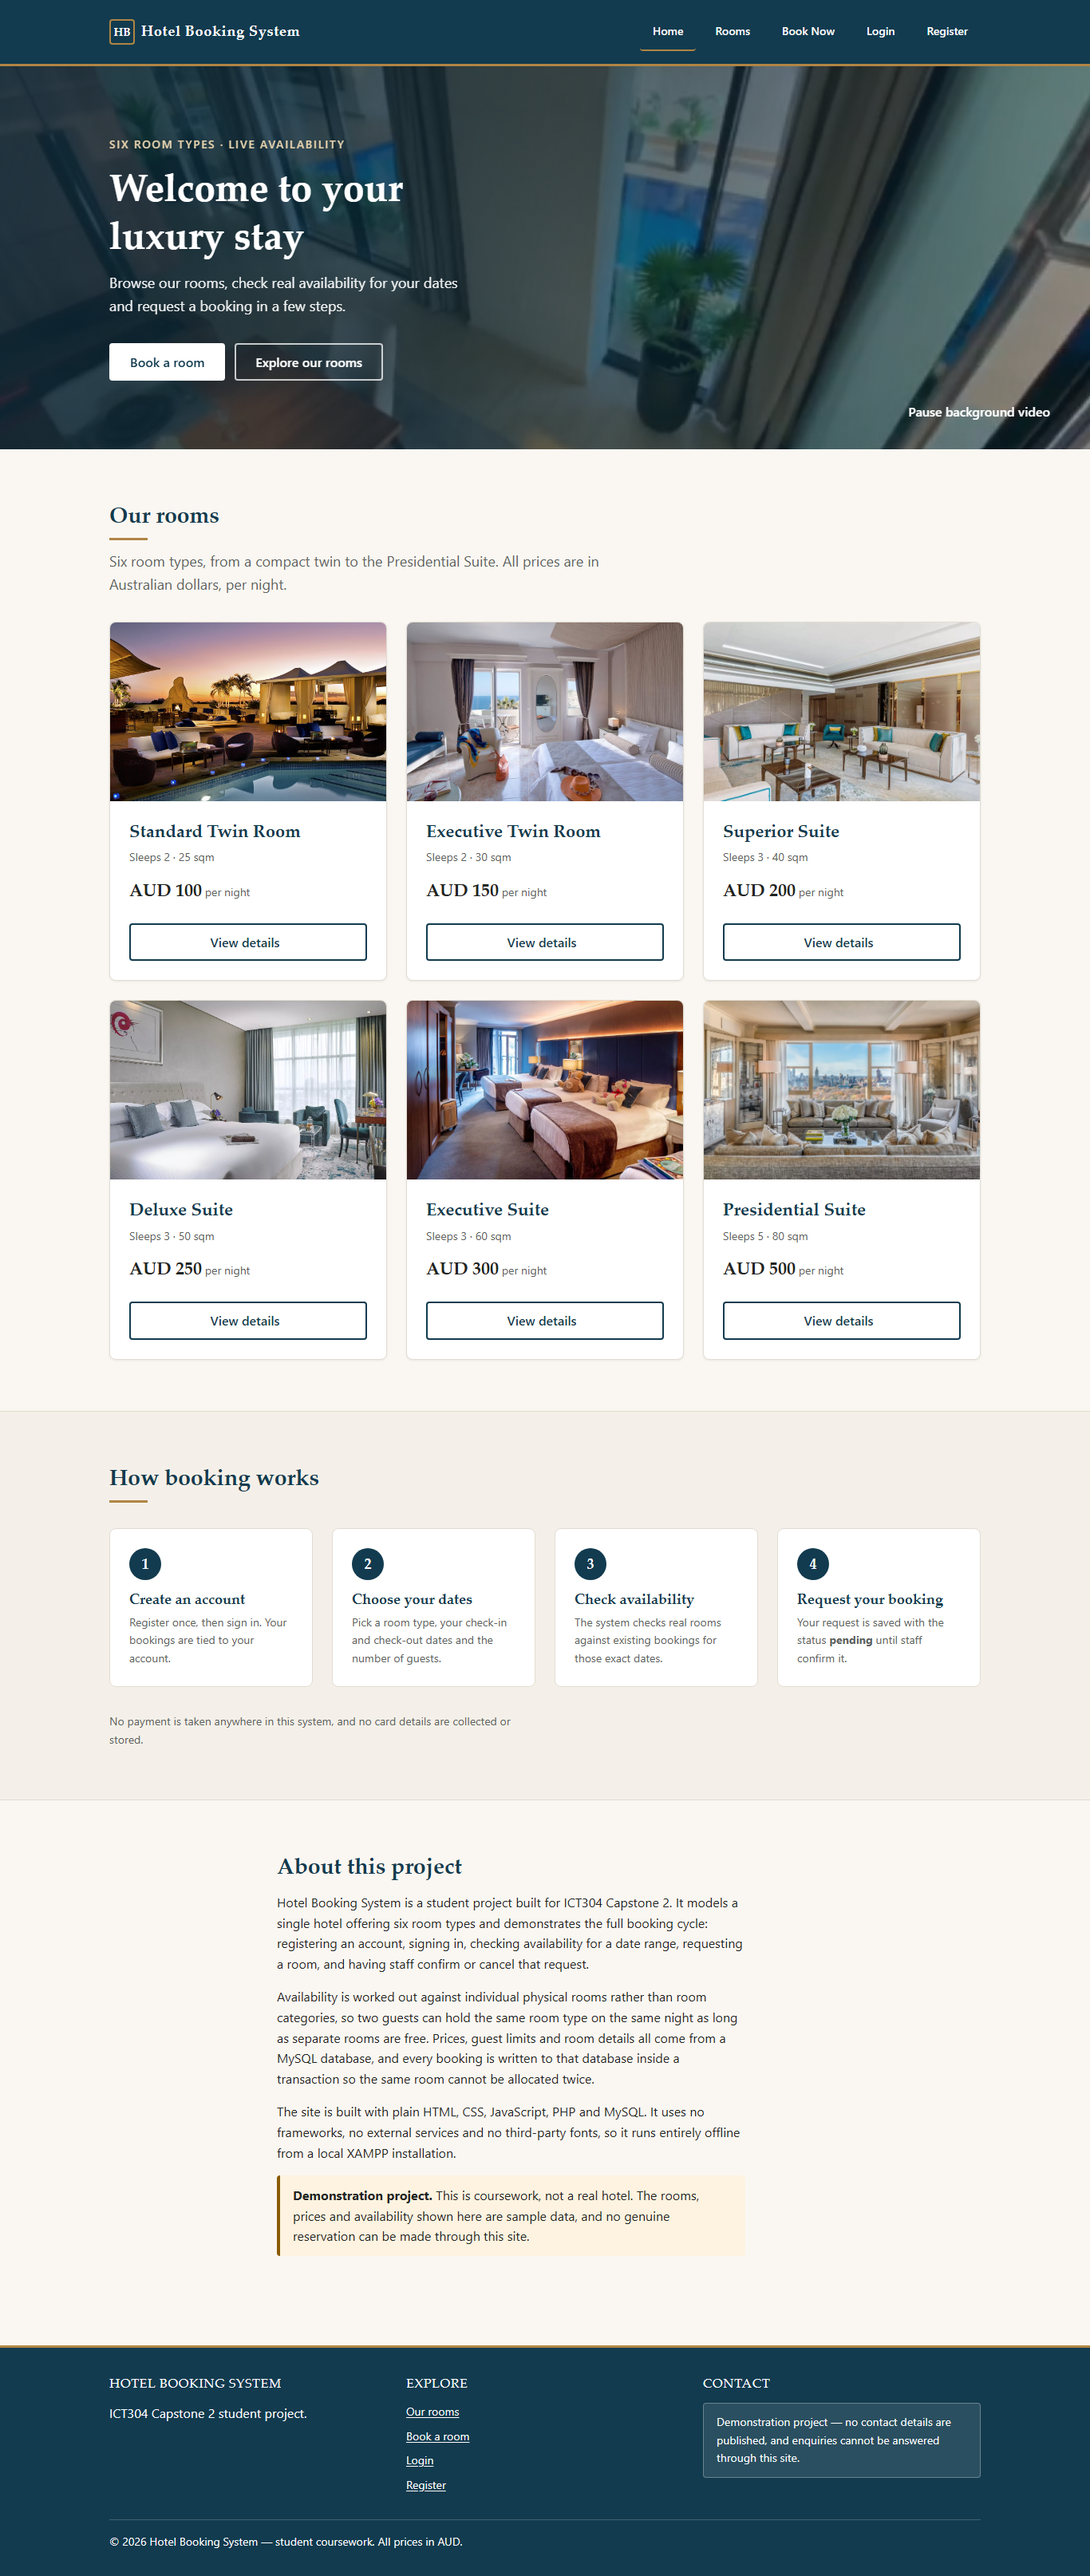
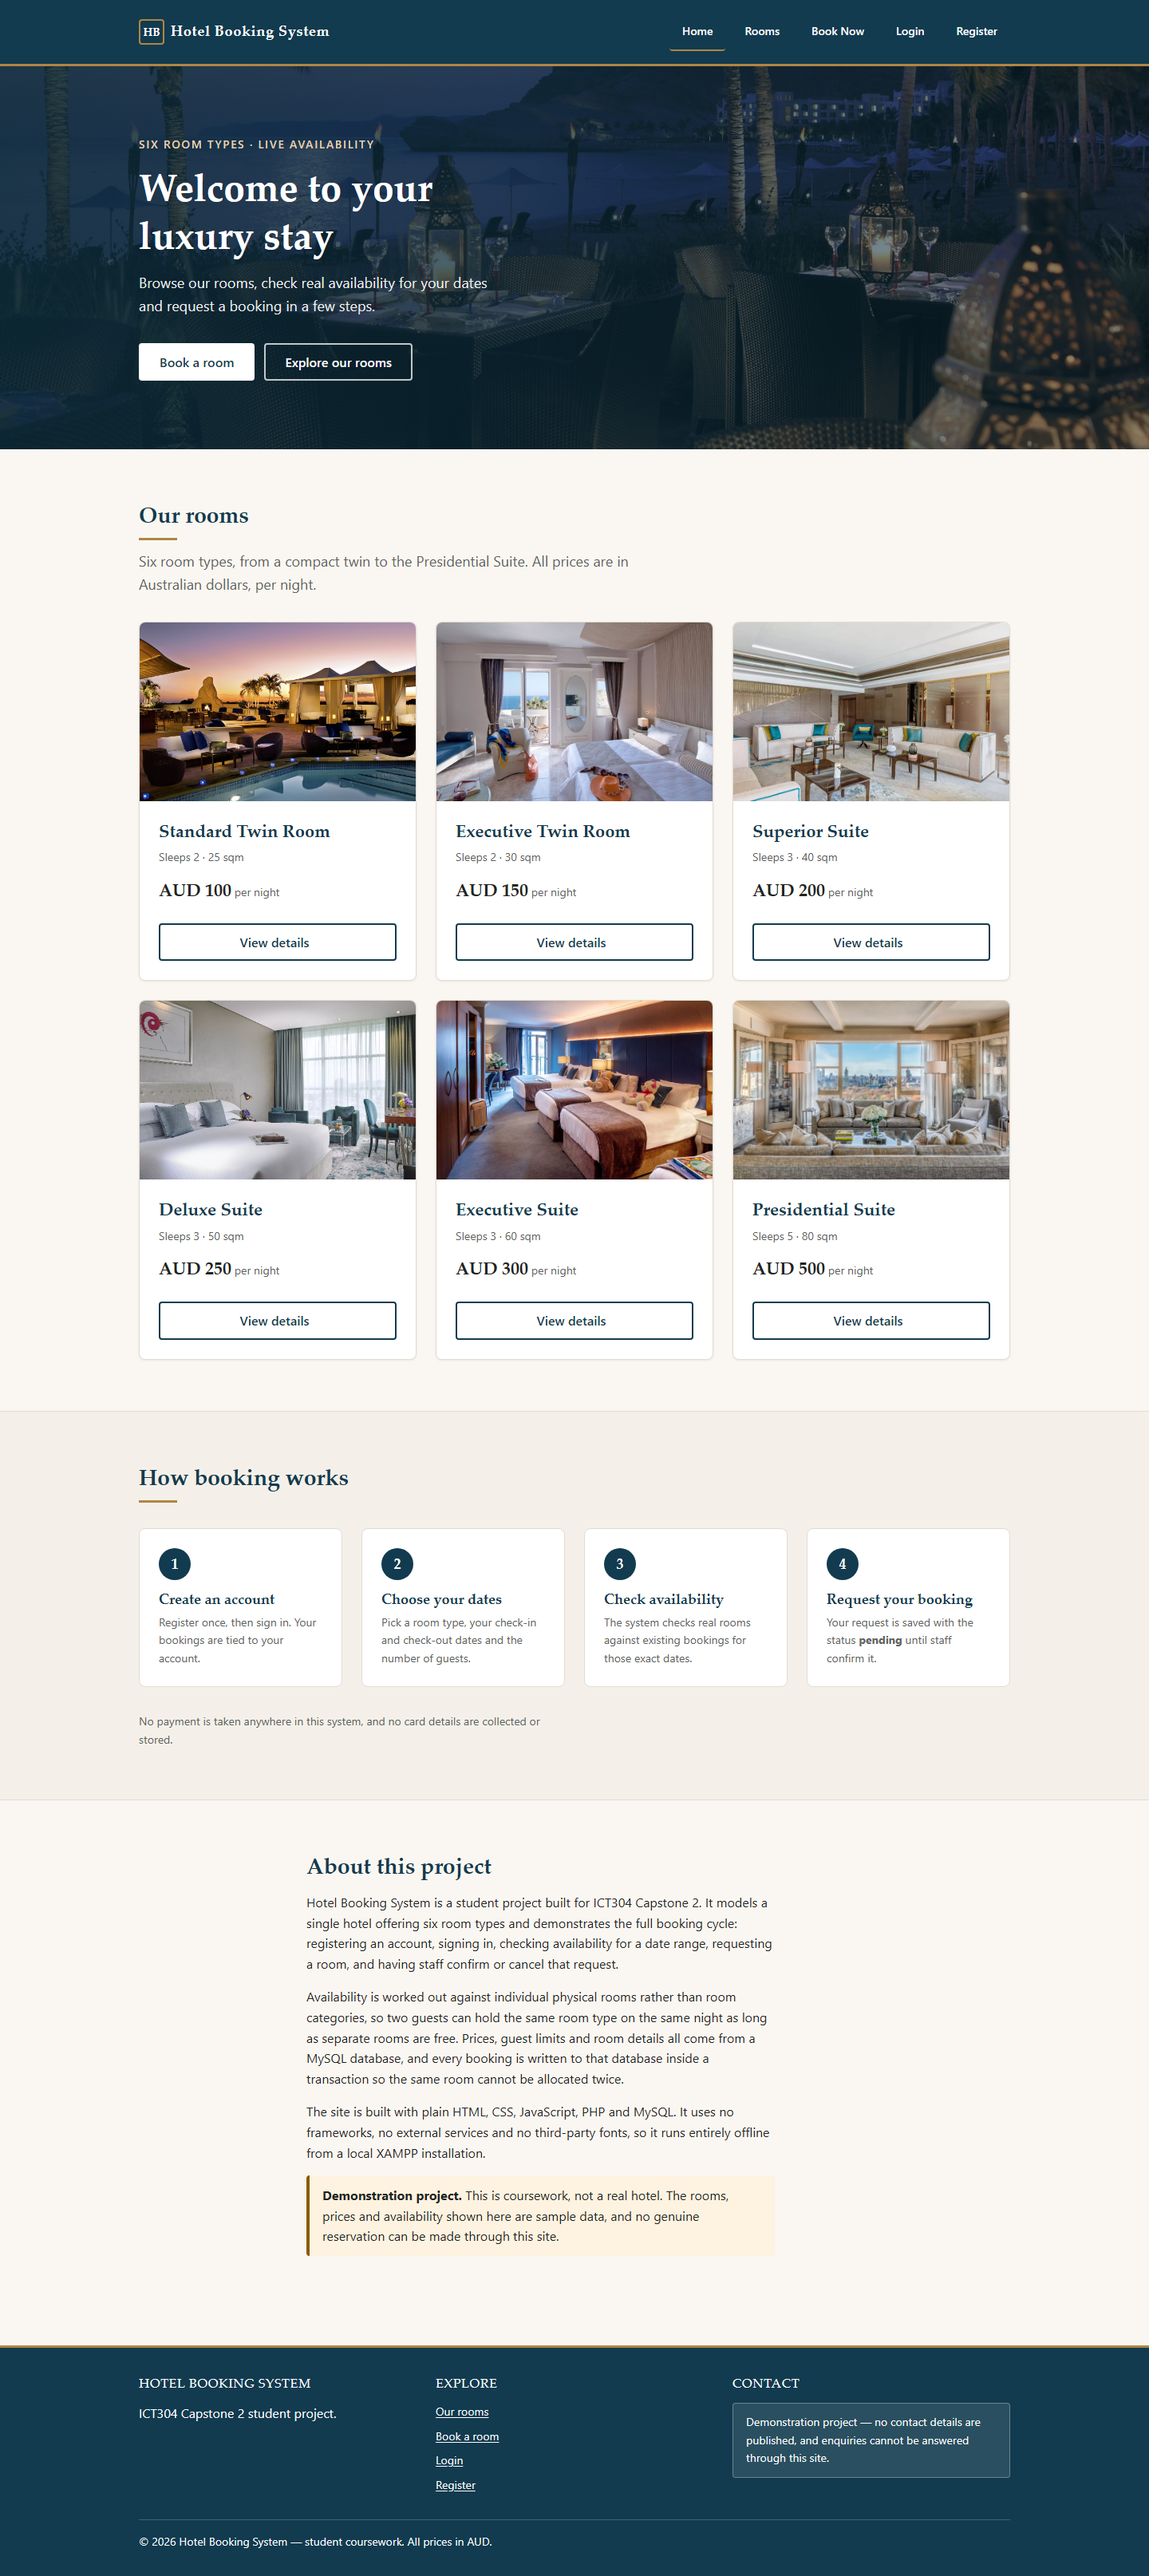
Refresh homepage evidence for static hero

diff --git a/TESTING.md b/TESTING.md
@@ -427,9 +427,13 @@ exactly one `<h1>`, no image missing `alt`.**
 | Broken links / assets | None (all internal references resolve) |
 
 Screenshots: [`docs/evidence/`](docs/evidence/) — see
-[Evidence](#evidence). The home page screenshots there were captured while the
-hero still used the video; they show the video's poster frame rather than the
-current static hero image.
+[Evidence](#evidence). The home page screenshots were **refreshed on
+30 July 2026, after the hero video was replaced with the static
+`images/home_bg.jpg`**, so they show the current hero. `homepage-desktop.png`
+was captured at 1440px and `homepage-mobile.png` at 375px; both were verified
+to contain no video element and no video-control button, and the mobile
+capture has no horizontal overflow. The remaining screenshots in that folder
+date from the original Phase 5 run and are unaffected by the hero change.
 
 ---
 
@@ -649,8 +653,8 @@ personal data** — only fictional `example.test` accounts.
 
 | File | Shows |
 |---|---|
-| `homepage-desktop.png` | Full home page at 1366px |
-| `homepage-mobile.png` | Home page at 390px |
+| `homepage-desktop.png` | Full home page at **1440px** — static hero, refreshed 30 Jul 2026 |
+| `homepage-mobile.png` | Home page at **375px** — static hero, refreshed 30 Jul 2026 |
 | `room-twin-desktop.png` | Standard Twin Room page |
 | `room-details-desktop.png` / `-mobile.png` | Presidential Suite page |
 | `login-desktop.png` | Login form |
